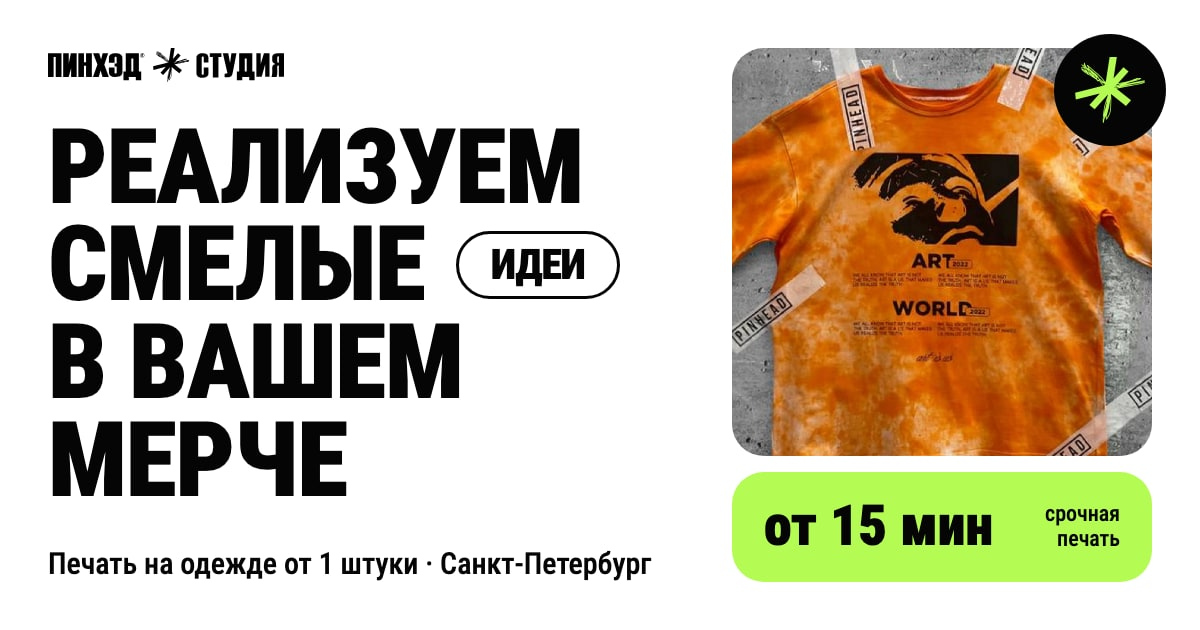
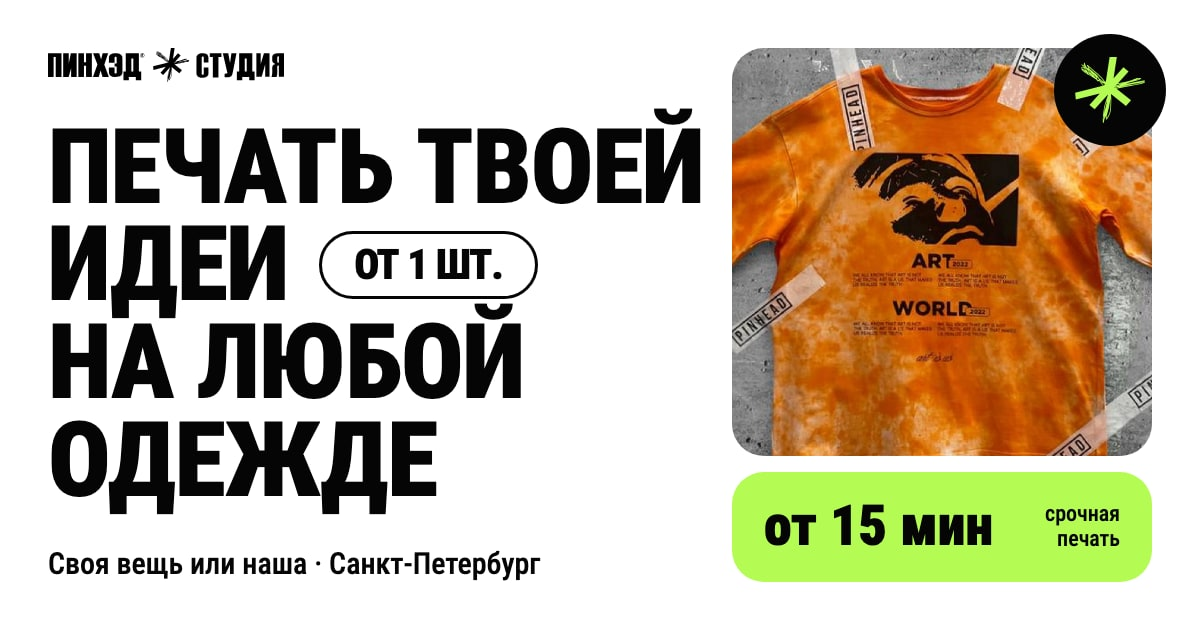
Бренд: превью ссылки с текстом нового первого экрана
- На OG-картинке заголовок первого экрана: «Печать твоей идеи от 1 шт. на любой одежде», подпись «Своя вещь или наша · Санкт-Петербург».
- Адрес картинки у страниц берётся из одной константы ogImageHref с версией (?v=2), чтобы Telegram и VK не показывали старое превью из кэша.
- В дизайн-системе записано: после замены картинки поднимать версию в адресе.

Changed region(s): [[0.0308, 0.1508, 0.5858, 0.6333], [0.0308, 0.6635, 0.37, 0.8143], [0.0308, 0.8746, 0.555, 0.9349]]

diff --git a/src/app/page.tsx b/src/app/page.tsx
@@ -16,6 +16,7 @@ import About from '@/components/home/about/about';
 import Marquee from '@/components/home/marquee/marquee';
 import SheetCut from '@/components/home/sheet-cut/sheet-cut';
 import SectionSnap from '@/components/site/smooth-scroll/section-snap';
+import { ogImageHref } from '@/components/site/links';
 
 const callLine = ['Закажи мерч', 'С любым принтом', 'Пинхэд'];
 
@@ -27,7 +28,7 @@ export const metadata: Metadata = {
     'печать на футболках, санкт-петербург, недорого, на заказ, цена, от 1 шт, срочный, заказать, хороший, сделать, стоимость, доставка, быстрый, качественный, черный, оверсайз, белый, онлайн, спортивный, свой дизайн, конструктор, создать макет, нанесение, собственный, толстовка, худи, студия, услуги, каталог, а3, а4, одежда, свитшот',
   metadataBase: new URL('https://studio.pnhd.ru'),
   alternates: { canonical: '/' },
-  openGraph: { type: 'website', title: 'PNHD STUDIO | Главная', images: '/opengraph-image.jpg' },
+  openGraph: { type: 'website', title: 'PNHD STUDIO | Главная', images: ogImageHref },
 };
 
 const HomePage: React.FC = () => (

diff --git a/src/app/methods/page.tsx b/src/app/methods/page.tsx
@@ -7,6 +7,7 @@ import SheetCut from '@/components/home/sheet-cut/sheet-cut';
 import PriceEstimate from '@/components/home/price-estimate/price-estimate';
 import ConstructorPromo from '@/components/home/constructor-promo/constructor-promo';
 import styles from './page.module.css';
+import { ogImageHref } from '@/components/site/links';
 
 export const metadata: Metadata = {
   title: 'Методы печати на одежде в Санкт-Петербурге в Pinhead Studio',
@@ -16,7 +17,7 @@ export const metadata: Metadata = {
     'методы печати на одежде, нанесение принта, dtg, dtf, шелкография, термотрансфер, вышивка, печать на футболках, санкт-петербург, от 1 шт',
   metadataBase: new URL(SITE_INFO.domain),
   alternates: { canonical: '/methods' },
-  openGraph: { type: 'website', title: 'Методы печати на одежде — Pinhead Studio', images: '/opengraph-image.jpg' },
+  openGraph: { type: 'website', title: 'Методы печати на одежде — Pinhead Studio', images: ogImageHref },
 };
 
 /** Методы нанесения: те же блоки, что на главной — панели методов (ведут на страницы методов), цены с расчётом и конструктор */

diff --git a/src/app/cases/page.tsx b/src/app/cases/page.tsx
@@ -6,7 +6,7 @@ import SectionHead from '@/components/home/section-head/section-head';
 import Cases from '@/components/home/cases/cases';
 import { CASES_PUBLISHED } from '@/components/home/cases/data';
 import MoreLink from '@/components/home/more-link/more-link';
-import { constructorHref } from '@/components/site/links';
+import { constructorHref, ogImageHref } from '@/components/site/links';
 import styles from './page.module.css';
 
 export const metadata: Metadata = {
@@ -17,7 +17,7 @@ export const metadata: Metadata = {
   alternates: { canonical: '/cases' },
   // Пока на странице заглушки — не индексировать (см. CASES_PUBLISHED).
   ...(CASES_PUBLISHED ? {} : { robots: { index: false, follow: true } }),
-  openGraph: { type: 'website', title: 'PNHD STUDIO | Кейсы', images: '/opengraph-image.jpg' },
+  openGraph: { type: 'website', title: 'PNHD STUDIO | Кейсы', images: ogImageHref },
 };
 
 const CasesPage: React.FC = () => (

diff --git a/src/app/contacts/page.tsx b/src/app/contacts/page.tsx
@@ -4,6 +4,7 @@ import {Metadata} from "next";
 import MapScreen from "@/components/pages-components/main-page/map-screen/map-screen";
 import MarkupScript from "@/components/shared-components/markup-script/markup-script";
 import Breadcrumbs from '@/components/shared-components/breadcrumbs/Breadcrumbs';
+import { ogImageHref } from '@/components/site/links';
 
 export const metadata: Metadata = {
   title: 'Контактная информация студии печати на одежде ПИНХЭД СТУДИЯ',
@@ -15,7 +16,7 @@ export const metadata: Metadata = {
   openGraph: {
     type: 'website',
     title: 'PNHD STUDIO | Главная',
-    images: '/opengraph-image.jpg',
+    images: ogImageHref,
   },
 };
 

diff --git a/src/app/loyalty/page.tsx b/src/app/loyalty/page.tsx
@@ -1,7 +1,7 @@
 import React from 'react';
 import Link from 'next/link';
 import { Metadata } from 'next';
-import { contactsHref } from '@/components/site/links';
+import { contactsHref, ogImageHref } from '@/components/site/links';
 import { Icon } from '@/features/constructor/ui/icons';
 import Breadcrumbs from '@/components/shared-components/breadcrumbs/Breadcrumbs';
 import Section from '@/components/home/section/section';
@@ -23,7 +23,7 @@ export const metadata: Metadata = {
   openGraph: {
     type: 'website',
     title: 'Программа лояльности Pinhead Studio',
-    images: '/opengraph-image.jpg',
+    images: ogImageHref,
   },
 };
 

diff --git a/src/app/constructor/page.tsx b/src/app/constructor/page.tsx
@@ -2,6 +2,7 @@ import type { Metadata } from 'next';
 import { Suspense } from 'react';
 import { ConstructorWithCart } from './ConstructorWithCart';
 import styles from './page.module.css';
+import { ogImageHref } from '@/components/site/links';
 
 export const metadata: Metadata = {
   title: 'Конструктор одежды с принтом онлайн — ПИНХЭД СТУДИЯ',
@@ -12,7 +13,7 @@ export const metadata: Metadata = {
   openGraph: {
     type: 'website',
     title: 'Конструктор одежды с принтом — ПИНХЭД СТУДИЯ',
-    images: '/opengraph-image.jpg',
+    images: ogImageHref,
   },
 };
 

diff --git a/scripts/brand-assets/og.html b/scripts/brand-assets/og.html
@@ -77,8 +77,8 @@
 <body>
   <div class="left">
     <img class="logo" src="../../public/brand/logo-ru.svg" alt="" />
-    <h1>Реализуем<br />смелые <span class="pill">идеи</span><br />в&nbsp;вашем мерче</h1>
-    <p class="lead">Печать на одежде от 1 штуки · Санкт-Петербург</p>
+    <h1>Печать твоей<br />идеи <span class="pill">от&nbsp;1&nbsp;шт.</span><br />на&nbsp;любой<br />одежде</h1>
+    <p class="lead">Своя вещь или наша · Санкт-Петербург</p>
   </div>
   <div class="right">
     <div class="photo"></div>

diff --git a/src/app/size_chart/page.tsx b/src/app/size_chart/page.tsx
@@ -10,6 +10,7 @@ import gildanTee from "../../../public/sizeChart/tee_gildan_sizes.png";
 import promoTee from "../../../public/sizeChart/tee_promo_sizes.png";
 import classicHood from "../../../public/sizeChart/hoodie_classic_sizes.png";
 import Breadcrumbs from '@/components/shared-components/breadcrumbs/Breadcrumbs';
+import { ogImageHref } from '@/components/site/links';
 
 const itemsArr = [
     {
@@ -50,7 +51,7 @@ export const metadata: Metadata = {
     openGraph: {
       type: 'website',
       title: 'PNHD STUDIO | Главная',
-      images: '/opengraph-image.jpg',
+      images: ogImageHref,
     },
   };
 

diff --git a/src/app/shop/page.tsx b/src/app/shop/page.tsx
@@ -6,6 +6,7 @@ import {productMainPhotoUrl} from '../utils/product-photos';
 import {CatalogPageNavigationJsonLD} from "@/app/utils/markups";
 import CatalogPage from '@/components/catalog/catalog-page/catalog-page';
 import type {SearchParams} from '@/components/catalog/filters';
+import { ogImageHref } from '@/components/site/links';
 
 
 export const metadata: Metadata = {
@@ -19,7 +20,7 @@ export const metadata: Metadata = {
   openGraph: {
     type: 'website',
     title: 'PNHD STUDIO | Главная',
-    images: '/opengraph-image.jpg',
+    images: ogImageHref,
   },
 };
 

diff --git a/src/components/site/links.ts b/src/components/site/links.ts
@@ -6,3 +6,6 @@ export const contactsHref = '/#contacts';
 
 /** Сайт для бизнеса (оптовое направление) — на него ведёт переключатель в шапке. */
 export const businessSiteHref = 'https://pnhd.ru/';
+
+/** Превью ссылки (src/app/opengraph-image.jpg). Версию в адресе поднимать при каждой замене картинки: соцсети кэшируют превью по адресу. */
+export const ogImageHref = '/opengraph-image.jpg?v=2';

diff --git a/docs/DESIGN-SYSTEM.md b/docs/DESIGN-SYSTEM.md
@@ -572,6 +572,7 @@
   салатовая карточка «от 15 мин», знак на чёрном круге. Своих OG-картинок у разделов нет.
 - Всё это собирает `node scripts/brand-assets/build.mjs` из шаблона `scripts/brand-assets/og.html` (цвета — из `tokens.css`).
   Поменялся первый экран, логотип или фирменные цвета — поправить шаблон и пересобрать.
+  После замены OG-картинки поднять версию в `ogImageHref` (`src/components/site/links.ts`): Telegram и VK кэшируют превью по адресу.
 
 ## Телефон (до 599 px)
 - Вопросы FAQ — токен `--display-list` (36 / 28 / 21 px): на телефоне на ступень меньше `--display-s`,
